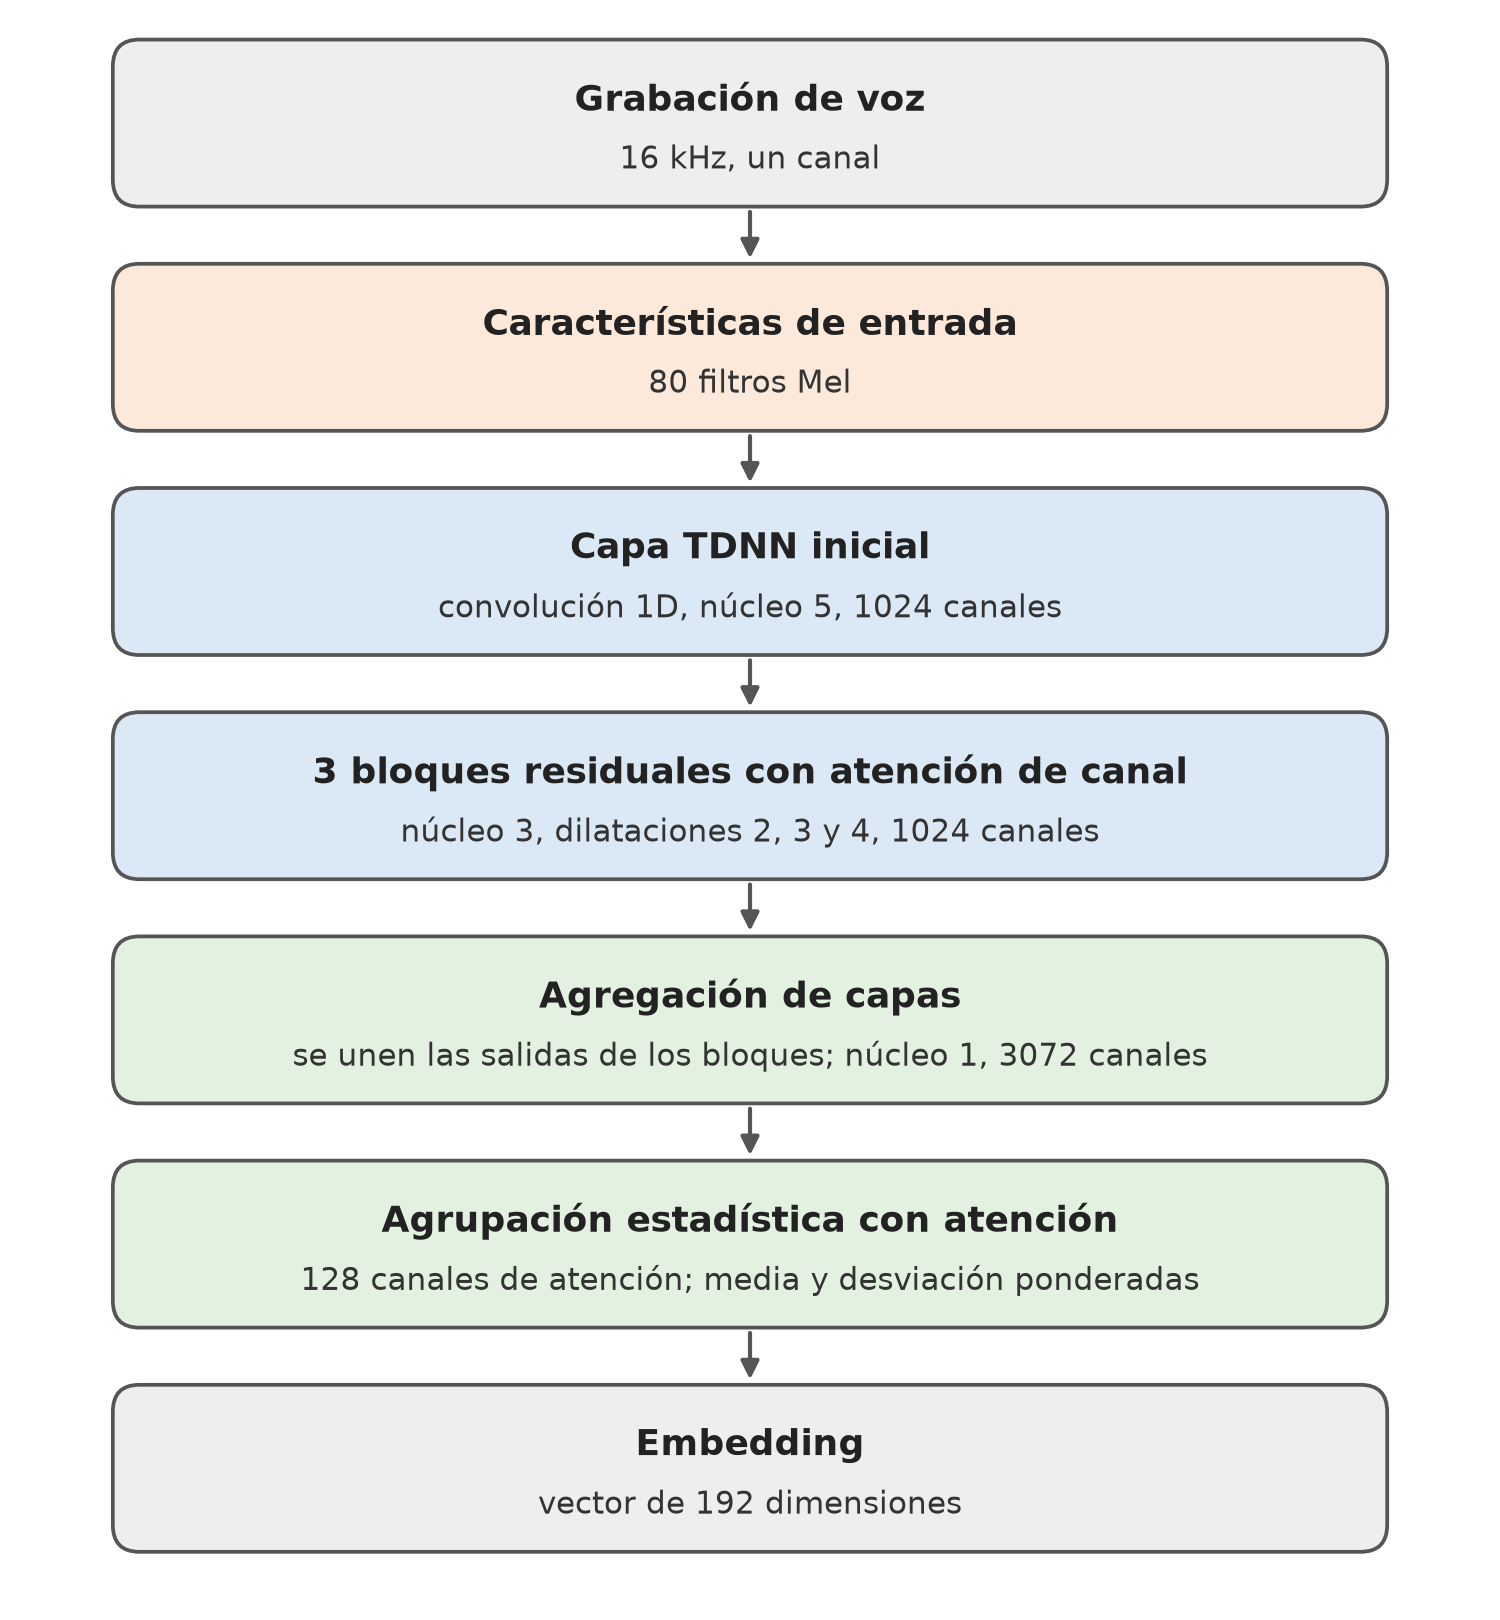
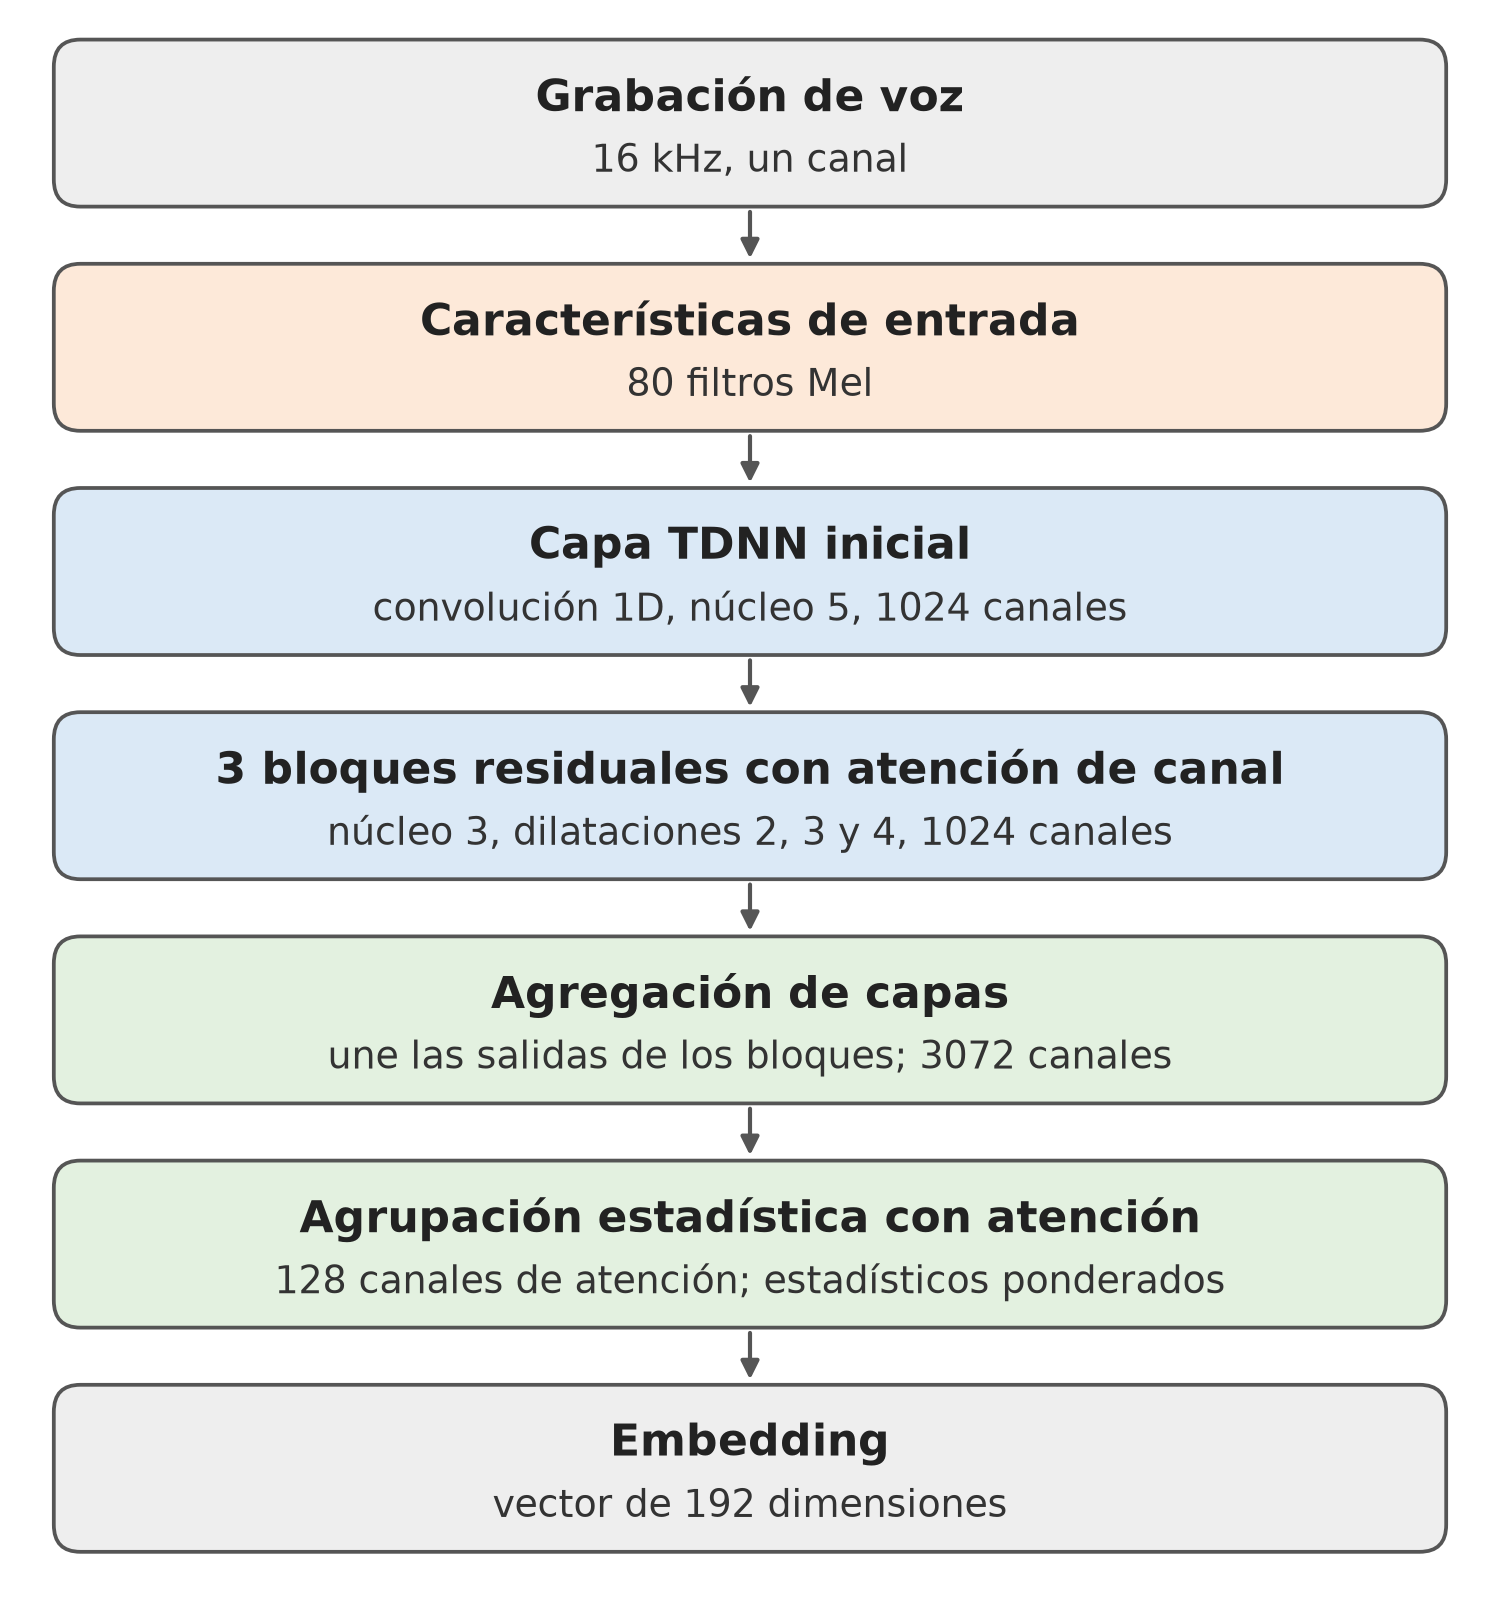
Aumenta la letra del diagrama de la arquitectura de ECAPA-TDNN para que sea legible

diff --git a/codigo/python/figura_ecapa_arquitectura.py b/codigo/python/figura_ecapa_arquitectura.py
@@ -20,8 +20,8 @@ filas = [  # (texto principal, detalle, color)
     ("Características de entrada", "80 filtros Mel", C_E),
     ("Capa TDNN inicial", "convolución 1D, núcleo 5, 1024 canales", C_B),
     ("3 bloques residuales con atención de canal", "núcleo 3, dilataciones 2, 3 y 4, 1024 canales", C_B),
-    ("Agregación de capas", "se unen las salidas de los bloques; núcleo 1, 3072 canales", C_A),
-    ("Agrupación estadística con atención", "128 canales de atención; media y desviación ponderadas", C_A),
+    ("Agregación de capas", "une las salidas de los bloques; 3072 canales", C_A),
+    ("Agrupación estadística con atención", "128 canales de atención; estadísticos ponderados", C_A),
     ("Embedding", "vector de 192 dimensiones", C_S),
 ]
 
@@ -29,11 +29,11 @@ fig, ax = plt.subplots(figsize=(5.0, 5.4))
 ax.set_xlim(0, 10); ax.set_ylim(0, 10.6); ax.axis("off")
 h, gap = 1.07, 0.42
 y = 10.4 - h
-cx, w = 5, 8.6
+cx, w = 5, 9.4
 for k, (t, d, c) in enumerate(filas):
     ax.add_patch(FancyBboxPatch((cx - w / 2, y), w, h, boxstyle="round,pad=0.02,rounding_size=0.18", fc=c, ec=EDGE, lw=0.9))
-    ax.text(cx, y + h * 0.64, t, ha="center", va="center", fontsize=8.6, fontweight="bold", color="#222222")
-    ax.text(cx, y + h * 0.27, d, ha="center", va="center", fontsize=7.4, color="#333333")
+    ax.text(cx, y + h * 0.65, t, ha="center", va="center", fontsize=10.5, fontweight="bold", color="#222222")
+    ax.text(cx, y + h * 0.26, d, ha="center", va="center", fontsize=9, color="#333333")
     if k < len(filas) - 1:
         ax.add_patch(FancyArrowPatch((cx, y), (cx, y - gap), arrowstyle="-|>", mutation_scale=9, lw=1.0, color=EDGE))
     y -= h + gap
